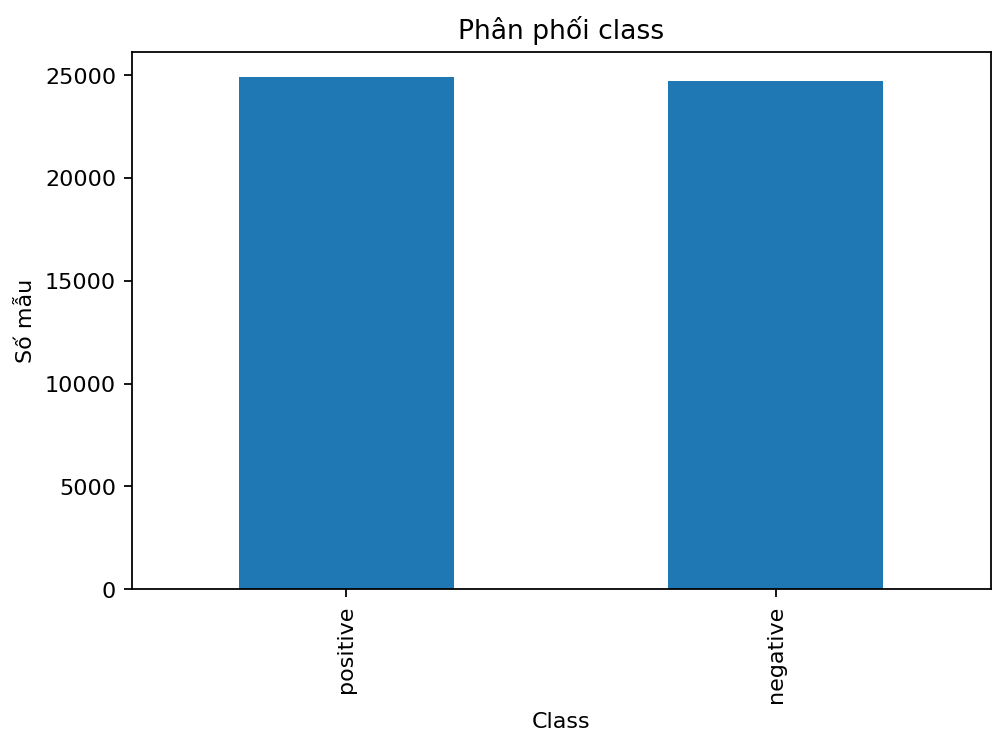
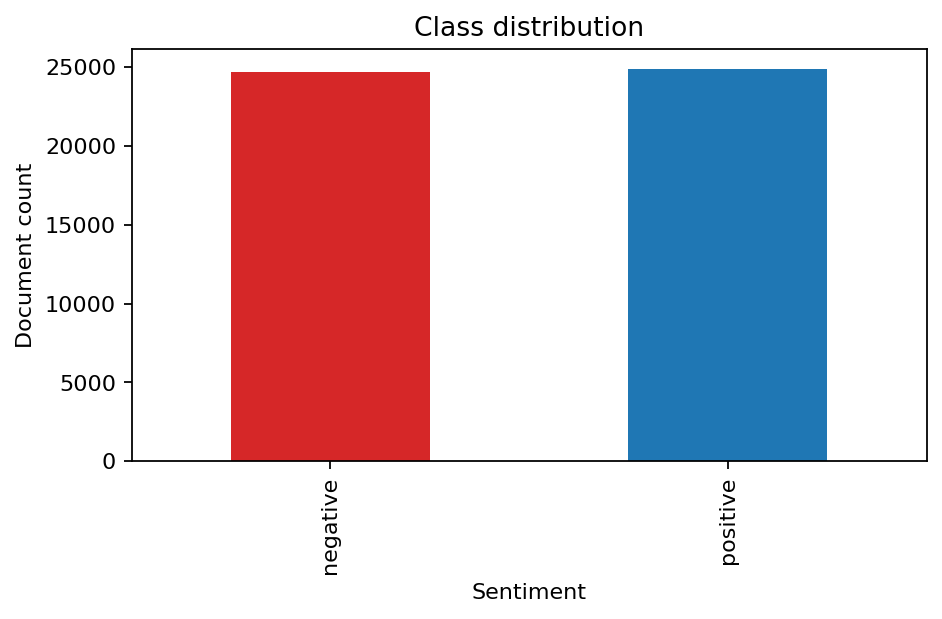
Complete Lab 4 experiment analysis

Changed region(s): [[0.0, 0.0307, 0.9851, 0.9515], [0.4926, 0.9515, 0.6157, 0.9822]]

diff --git a/lab4/reflection.md b/lab4/reflection.md
@@ -1,24 +1,32 @@
 # Reflection — Representation và classification
 
-**Dataset/task đã chọn:**  
+**Dataset/task đã chọn:** IMDb Dataset - phân loại cảm xúc nhị phân cho review phim.
 
 ## 1. Representation/model nào phù hợp nhất với task? Vì sao?
 
+TF-IDF unigram + Linear SVM tốt nhất trên validation với macro F1 `0.8981`; khi đánh giá một lần trên test, macro F1 là `0.8975`. Review IMDb thường có từ đánh giá trực tiếp như `great`, `excellent`, `worst` và `boring`; TF-IDF giữ rõ tín hiệu từ vựng đó, còn Linear SVM phù hợp với feature space thưa, nhiều chiều.
 
 ## 2. TF-IDF và Average Word2Vec tạo kết quả khác nhau thế nào?
 
+TF-IDF + Logistic Regression đạt macro F1 validation `0.8918`, trong khi Average Word2Vec + Logistic Regression đạt `0.8292`. TF-IDF là biểu diễn sparse, nhấn mạnh từ hoặc phrase đặc trưng của review. Average Word2Vec là vector dense có tính ngữ nghĩa, nhưng phép trung bình làm yếu những từ quyết định sentiment và bỏ thứ tự từ.
 
 ## 3. Vì sao accuracy có thể gây hiểu nhầm khi class imbalance?
 
+Một model có thể dự đoán toàn bộ là lớp phổ biến mà vẫn có accuracy cao. Vì vậy cần xem precision, recall, F1 theo lớp hoặc macro F1 và confusion matrix. IMDb sau làm sạch gần cân bằng (`49.81%` negative, `50.19%` positive), nên accuracy và macro F1 ở đây gần nhau; điều này không đúng với mọi dataset.
 
 ## 4. Average Word2Vec xử lý thứ tự từ và từ `not` thế nào?
 
+Average Word2Vec chỉ cộng rồi lấy trung bình vector các từ nên không giữ thứ tự. Vì `not good` và `good not` chứa cùng token, vector trung bình của chúng giống nhau; mô hình không biết `not` đang phủ định `good`.
 
 ## 5. Bigram giúp được gì và làm feature space thay đổi ra sao?
 
+Bigram tạo feature cho cụm như `not good`, nên có thể giữ một phần thông tin phủ định. Tuy nhiên vocabulary tăng từ `82,600` unigram lên `1,725,370` unigram + bigram và thời gian train tăng từ `6.51` giây lên `36.52` giây. Trong lần chạy này macro F1 validation của unigram + bigram là `0.8912`, không cao hơn unigram Logistic Regression (`0.8918`), nên chi phí feature space chưa đổi lấy cải thiện.
 
 ## 6. Confusion matrix cho thấy lỗi nào đáng chú ý nhất?
 
+Trên test, confusion matrix theo thứ tự actual/predicted `negative`, `positive` là `[[4398, 542], [474, 4503]]`. Có 542 review negative bị dự đoán positive và 474 review positive bị dự đoán negative. False positive nhiều hơn nhẹ; các review có từ khen nhưng ý mỉa mai hoặc kết luận tiêu cực là nguồn lỗi đáng chú ý.
 
 ## 7. Kết quả nào dẫn tới contextual/sequence models ở lab tiếp theo?
+
+Average Word2Vec không hiểu thứ tự, còn TF-IDF và Linear SVM dựa mạnh vào tín hiệu từ hoặc cụm từ. Những lỗi do phủ định, mỉa mai và sentiment trái chiều trong cùng review cho thấy cần mô hình sequence/context để biểu diễn quan hệ giữa các từ; đây là động lực cho RNN/LSTM/GRU và sau đó attention/Transformer.
 

diff --git a/lab4/error_analysis.md b/lab4/error_analysis.md
@@ -1,23 +1,23 @@
 # Phân tích lỗi classification
 
-**Dataset/task:**  
-**Model/representation được chọn theo validation:**  
+**Dataset/task:** IMDb Dataset - phân loại cảm xúc review phim thành `positive` hoặc `negative`.  
+**Model/representation được chọn theo validation:** TF-IDF unigram + Linear SVM (macro F1 validation: `0.8981`).  
 
 ## Các ví dụ phân loại đúng
 
 | STT | Text | Nhãn thật | Dự đoán | Giải thích |
 |---:|---|---|---|---|
-| 1 |  |  |  |  |
-| 2 |  |  |  |  |
-| 3 |  |  |  |  |
+| 1 | I hope this group of film-makers never re-unites. | negative | negative | Câu ngắn nhưng có tín hiệu phủ định rõ: `never`. |
+| 2 | A touching movie. It is full of emotions and wonderful acting. | positive | positive | Các từ `touching`, `wonderful` là tín hiệu positive mạnh. |
+| 3 | A great film in its genre ... A must see. | positive | positive | `great` và `must see` phù hợp với feature positive có trọng số cao. |
 
 ## Các ví dụ phân loại sai
 
 | STT | Text | Nhãn thật | Dự đoán | Nguyên nhân |
 |---:|---|---|---|---|
-| 1 |  |  |  |  |
-| 2 |  |  |  |  |
-| 3 |  |  |  |  |
+| 1 | More suspenseful, more subtle, much, much more disturbing.... | negative | positive | **Short text / lexical ambiguity:** `suspenseful` và `subtle` dễ bị xem là positive, còn tín hiệu negative rất ít. |
+| 2 | A real hoot, unintentionally ... Nothing about this movie rings true. And it's boring to boot. | negative | positive | **Sarcasm và tín hiệu trái chiều:** từ `hoot`, `sweet`, `lovable` lấn át ý mỉa mai và từ negative ở cuối. |
+| 3 | It's not Citizen Kane, but it does deliver ... badly acted and directed, poorly scripted. Who cares? | positive | negative | **Negation / mixed sentiment:** `not`, `badly`, `poorly` khiến bag-of-words nghiêng về negative dù đánh giá tổng thể là positive. |
 
-Phân loại nguyên nhân theo ngữ cảnh: lexical ambiguity, negation, sarcasm, short text,
-rare word, domain-specific term, data noise hoặc class imbalance.
+Các lỗi cho thấy TF-IDF tuyến tính nhạy với từ mang cảm xúc, nhưng không nắm chắc mỉa mai, quan hệ đối lập và ý nghĩa của toàn câu.
+

diff --git a/lab4/prediction.md b/lab4/prediction.md
@@ -1,4 +1,4 @@
-# Dự đoán trước experiment
+# 10, Prediction trước experiment
 
 **Dataset:**  
 **Task:**  
@@ -27,8 +27,13 @@
 - Reason: Stopwords đôi khi là nhiễu, nhưng cũng có thể mang thông tin ngữ nghĩa hoặc quan hệ ngữ pháp quan trọng.
 - Confidence: Cao
 
+
 ## 5. Accuracy và F1 có thể cho kết luận khác nhau?
 
 - Prediction: Có thể cho kết luận khác nhau.
 - Reason: Accuracy tính tổng số dự đoán đúng, còn F1 cân bằng precision và recall, nên phản ánh tốt hơn hiệu quả ở từng lớp.
 - Confidence: Rất cao.
+
+# 12, Data leakage
+
+Data leakage xảy ra vì `fit` TF-IDF trên toàn bộ dữ liệu đã dùng vocabulary và IDF của test set do đó vocabulary chứa thông tin/ các từ trong tập test. Mô hình vì vậy gián tiếp biết thông tin của test trước khi đánh giá, khiến kết quả cao hơn thực tế. Chỉ được `fit` trên train rồi `transform` validation/test.
